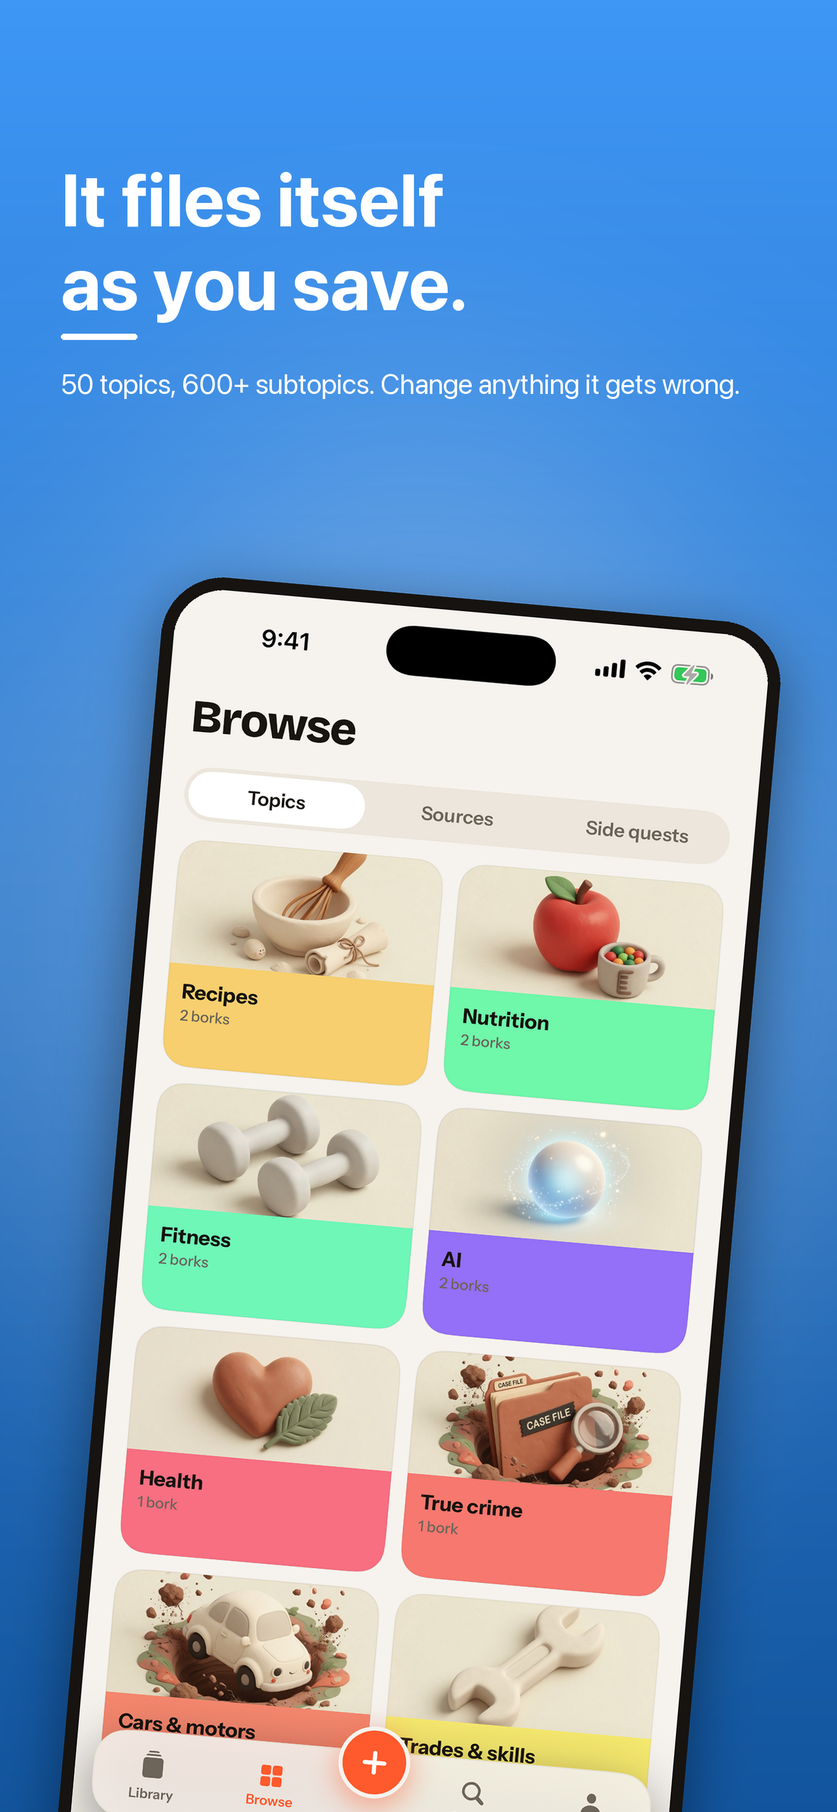
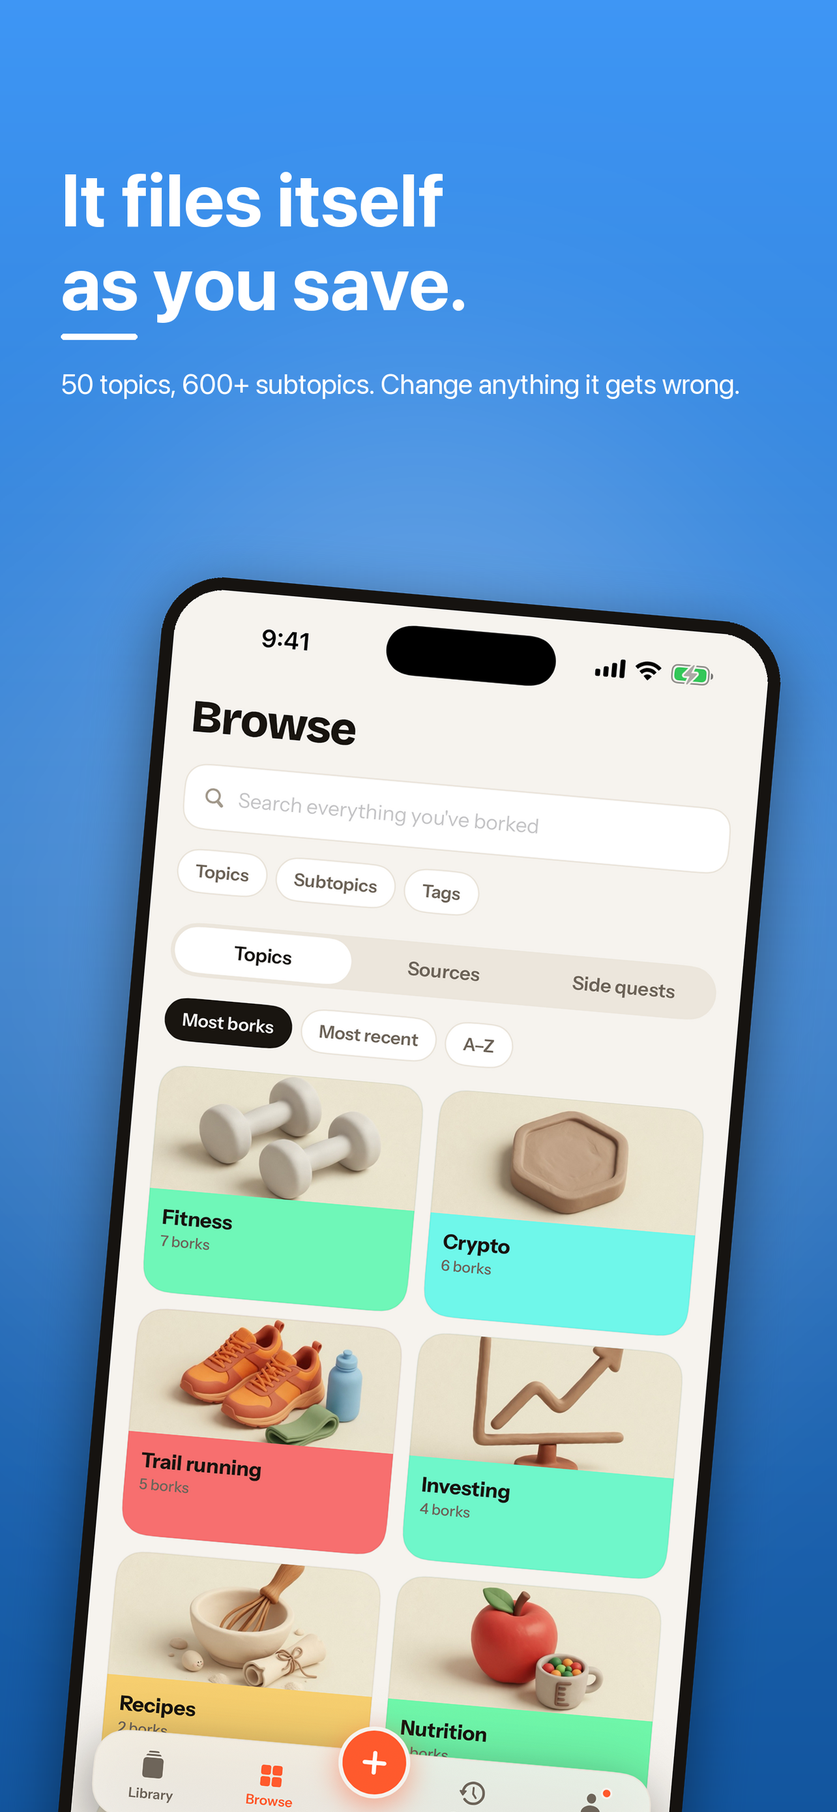
Give the seed real covers, so no store screenshot shows a placeholder
The 1.1 screenshots had two holes in them, both the seed's fault rather
than the UI's:

- Browse drew "Trail running" as a blank paper tile. It is the seed's one
  custom topic, and a custom topic has no bundled art until the `topic-art`
  function draws one. Two rows into the first Browse screenshot, that reads
  as a broken image.
- Every seeded media bork fell back to `CoverImage`'s gradient, so the
  topic page, Revisit and scoped search were columns of flat green behind
  a play glyph.

Both fallbacks are right in the app — Instagram and TikTok publish no
thumbnail to an unauthenticated request, so the gradient is permanent and
deliberately handsome — and both photograph as "the images failed to
load", which is what the store page would have been judged on.

So the seed now carries real covers: seven thumbnails from a real library,
served from our own bucket, and the clay scene `topic-art` draws for a
running topic. They arrive through the ordinary `AsyncImage` path, so the
screenshots are still unretouched captures of the real UI. Assignments are
chosen so no two cards visible in the same shot share an image. X and
Threads posts keep no cover: a text post has none in the app either.

All DEBUG-only — `DebugSeed` is inside `#if DEBUG` and nothing here is
compiled into a Release build.

Also:
- `shoot` waits `SETTLE` (default 3s) after the screen is up, since a
  cover is now a network fetch that cross-fades in and a half-faded cover
[…]

Changed region(s): [[0.1246, 0.4334, 0.8723, 1.0]]

diff --git a/App/DebugSeed.swift b/App/DebugSeed.swift
@@ -54,6 +54,10 @@ enum DebugSeed {
                 noteDate: sample.note == nil ? nil : .now,
                 savedAt: daysAgo(age)
             )
+            // The cover the platform published, as `PreviewFetcher` would have
+            // written it. Set here rather than passed to `init` so the seed
+            // doesn't widen a model initialiser it is the only caller of.
+            bookmark.imageURLString = sample.image
             // Usage signal. Revisit is built entirely from these two fields, so
             // a seed where nothing was ever opened shows a permanently empty
             // "you keep coming back to" — which is the one section a screenshot
@@ -66,11 +70,6 @@ enum DebugSeed {
             saved.append(bookmark)
         }
 
-        // A topic the user invented, with subtopics to match. The 50 built-ins
-        // carry bundled clay art; a topic you made has none until the
-        // `topic-art` function draws it — which makes this the seed's only
-        // exercise of the hero band's tint fallback, and of a custom topic
-        // mixing into the grid under A–Z.
         // A bork the share sheet accepted after the limit was reached: saved,
         // on the phone, greyed in the Library, waiting for an account.
         for (offset, sample) in waitingSamples.enumerated() {
@@ -83,6 +82,7 @@ enum DebugSeed {
                 durationSeconds: sample.duration,
                 savedAt: Date.now.addingTimeInterval(Double(offset) * -600)
             )
+            bookmark.imageURLString = sample.image
             bookmark.waitingSince = Date.now.addingTimeInterval(Double(offset) * -600)
             context.insert(bookmark)
         }
@@ -95,14 +95,29 @@ enum DebugSeed {
             return
         }
 
+        // A topic the user invented, with subtopics to match, mixing into the
+        // grid under A–Z. The 50 built-ins carry bundled clay art; a topic you
+        // made has none until the `topic-art` function draws it.
+        //
+        // The seed used to leave that art off, which made this its only
+        // exercise of the hero band's tint fallback — and drew a blank paper
+        // tile two rows into Browse, the first thing the eye lands on in the
+        // store screenshot, where it reads as a broken image. So it gets the
+        // scene `topic-art` would have drawn for it. The fallback is still
+        // exercised by every topic created at runtime, in the seconds between
+        // creating one and its art landing.
         let custom = CustomTopic(name: "Trail running", hue: CustomTopic.nextHue(existing: []))
+        custom.imageURLString = Cover.trailRunning
+        // Stamped as already asked for, so Browse's backfill doesn't spend a
+        // round trip re-drawing a topic that has its scene.
+        custom.artRequestedAt = .now
         context.insert(custom)
         for name in ["Races", "Shoes", "Ultras"] {
             context.insert(CustomSubtopic(categoryID: custom.id, name: name))
         }
         for (offset, sample) in customSamples.enumerated() {
             guard let url = URL(string: sample.url) else { continue }
-            context.insert(Bookmark(
+            let bookmark = Bookmark(
                 url: url,
                 title: sample.title,
                 author: sample.author,
@@ -113,7 +128,9 @@ enum DebugSeed {
                 tags: sample.tags,
                 durationSeconds: sample.duration,
                 savedAt: daysAgo(offset * 3 + 2)
-            ))
+            )
+            bookmark.imageURLString = sample.image
+            context.insert(bookmark)
         }
 
         let quest = Mission(title: "Improve mobility for running", categoryID: "fitness")
@@ -134,24 +151,72 @@ enum DebugSeed {
         Sample(url: "https://www.youtube.com/watch?v=utmb2026",
                title: "UTMB, from the back of the pack", author: "@longwaydown",
                platform: .youtube, kind: .video, category: "", sub: "Races",
-               tags: ["ultra", "utmb"], duration: 1840),
+               tags: ["ultra", "utmb"], duration: 1840,
+               image: Cover.talkingHead),
         Sample(url: "https://www.instagram.com/reel/C13trailshoes",
                title: "Three trail shoes, six hundred kilometres",
                author: "@dirt.miles", platform: .instagram, kind: .reel,
-               category: "", sub: "Shoes", tags: ["shoes", "gear"], duration: 74),
+               category: "", sub: "Shoes", tags: ["shoes", "gear"], duration: 74,
+               image: Cover.mobility),
         Sample(url: "https://www.tiktok.com/@vertgang/video/9912",
                title: "Power hiking is not cheating", author: "@vertgang",
                platform: .tiktok, kind: .clip, category: "", sub: "Ultras",
-               tags: ["vert", "technique"], duration: 58),
+               tags: ["vert", "technique"], duration: 58,
+               image: Cover.footPain),
         Sample(url: "https://www.irunfar.com/2026/07/night-running-kit",
                title: "What to carry when the race runs into the dark",
                author: "irunfar.com", platform: .web, kind: .article,
-               category: "", sub: "Ultras", tags: ["kit", "night"]),
+               category: "", sub: "Ultras", tags: ["kit", "night"],
+               image: Cover.physiology),
         Sample(url: "https://www.youtube.com/shorts/downhillform",
                title: "Downhill form drills for beaten quads",
                author: "@dirt.miles", platform: .shorts, kind: .short,
-               category: "", sub: "Ultras", tags: ["downhill", "quads"], duration: 44),
+               category: "", sub: "Ultras", tags: ["downhill", "quads"], duration: 44,
+               image: Cover.explainer),
     ]
+
+    /// Real cover art for the seeded borks.
+    ///
+    /// Without these every seeded media bork falls back to `CoverImage`'s
+    /// gradient — which is the right thing in the app (Instagram and TikTok
+    /// don't publish thumbnails to unauthenticated requests, so for a real
+    /// library it is permanent, and deliberately handsome) and the wrong thing
+    /// in an App Store screenshot, where a column of flat gradients behind a
+    /// play glyph reads as "the images failed to load".
+    ///
+    /// These are real thumbnails from the founder's own library, copied into
+    /// our storage bucket, so what the screenshots show is a genuine cover
+    /// arriving through the ordinary `AsyncImage` path. Nothing is drawn over
+    /// the app's own pixels and no UI is invented.
+    ///
+    /// Named rather than numbered so an assignment below can be read for what
+    /// it puts on the card. Seven of the eight saved covers are here: the
+    /// eighth is a 1.8 KB all-black frame (mean luminance 0.9 of 255), which
+    /// on a card is indistinguishable from the missing image this exists to
+    /// fix, so it is deliberately left out.
+    private enum Cover {
+        private static let bucket = "https://pcjuxnhqxyfvgagnblzv.supabase.co/storage/v1/object/public/thumbs/2571a6ca-9bb5-4a2e-82af-889f0a75b940/"
+
+        /// Neck and shoulder mobility routine.
[1 lines of base64/hex data omitted]
+        /// Piece to camera in front of a health infographic.
[1 lines of base64/hex data omitted]
+        /// Anatomy overlay on a standing figure.
[1 lines of base64/hex data omitted]
+        /// Bare feet on rock — "I have pain in my foot when I run".
[1 lines of base64/hex data omitted]
+        /// A screenshotted post, the way a long text clip gets saved.
[1 lines of base64/hex data omitted]
+        /// Talking to camera, shot in a car.
[1 lines of base64/hex data omitted]
+        /// Supermarket aisle, scoring food.
[1 lines of base64/hex data omitted]
+
+        /// The clay scene the `topic-art` function draws for a running topic,
+        /// already published on the marketing site. Stands in for generated
+        /// art so the seeded custom topic is not blank paper in a screenshot.
+        static let trailRunning = "https://bookmarker.lol/img/quests/run.jpg"
+    }
 
     private struct Sample {
         let url: String, title: String, author: String
@@ -167,6 +232,14 @@ enum DebugSeed {
         var days: Int? = nil
         var opens: Int = 0
         var openedDaysAgo: Int = 1
+        /// Cover thumbnail. Last, so the memberwise initialiser takes it last
+        /// and every sample below can name it on its own final line.
+        ///
+        /// Left nil on X and Threads posts: a text post has no cover in the
+        /// real app either — it renders as the post itself, with the handle
+        /// and the platform mark — so a cover there would be invented UI, not
+        /// a fix.
+        var image: String? = nil
     }
 
     private static let samples: [Sample] = [
@@ -174,7 +247,8 @@ enum DebugSeed {
                title: "5-minute hip mobility flow you can do at your desk",
                author: "@physio.jane", platform: .tiktok, kind: .clip,
                category: "fitness", sub: "Mobility", tags: ["hips", "desk", "daily"],
-               duration: 312, note: "Do this before long runs.", opens: 7, openedDaysAgo: 1),
+               duration: 312, note: "Do this before long runs.", opens: 7, openedDaysAgo: 1,
+               image: Cover.mobility),
         Sample(url: "https://x.com/hubermanclips/status/180233",
                title: "Magnesium glycinate thread", author: "@hubermanclips",
                platform: .x, kind: .thread, category: "health", sub: "Sleep",
@@ -184,12 +258,14 @@ enum DebugSeed {
                title: "I tried the 30g protein breakfast for 30 days — here is what happened",
                author: "@macrofriendly", platform: .youtube, kind: .video,
                category: "nutrition", sub: "High-protein", tags: ["breakfast", "protein"],
-               duration: 768, opens: 4, openedDaysAgo: 2),
+               duration: 768, opens: 4, openedDaysAgo: 2,
+               image: Cover.groceries),
         Sample(url: "https://www.instagram.com/reel/C8xhamstring",
                title: "4 stretches for tight hamstrings after long runs",
                author: "@run.physio", platform: .instagram, kind: .reel,
                category: "fitness", sub: "Stretching", tags: ["hamstrings", "running"],
-               duration: 48, opens: 3, openedDaysAgo: 4),
+               duration: 48, opens: 3, openedDaysAgo: 4,
+               image: Cover.footPain),
         Sample(url: "https://www.threads.net/@macromusings/post/991",
                title: "On fasting windows", author: "@macromusings",
                platform: .threads, kind: .thread, category: "nutrition", sub: "Fasting",
@@ -199,24 +275,29 @@ enum DebugSeed {
                title: "5-ingredient high-protein dinner in 12 minutes",
                author: "@quickmacros", platform: .shorts, kind: .short,
                category: "recipes", sub: "High-protein", tags: ["dinner", "quick"],
-               duration: 51),
+               duration: 51,
+               image: Cover.groceries),
         Sample(url: "https://arstechnica.com/2026/07/the-quiet-return-of-local-models",
                title: "The quiet return of local models", author: "arstechnica.com",
                platform: .web, kind: .article, category: "ai", sub: "Local models",
-               tags: ["local", "inference"]),
+               tags: ["local", "inference"],
+               image: Cover.postScreenshot),
         Sample(url: "https://www.tiktok.com/@detailgeek/video/8821",
                title: "Paint correction on a 20 year old daily driver",
                author: "@detailgeek", platform: .tiktok, kind: .clip,
                category: "cars", sub: "Detailing", tags: ["detailing", "paint"],
-               duration: 187),
+               duration: 187,
+               image: Cover.talkingHead),
         Sample(url: "https://www.pinterest.com/pin/smallkitchen",
                title: "Small kitchen storage that actually works",
                author: "pinterest.com", platform: .pinterest, kind: .pin,
-               category: "cleaning", sub: "Storage", tags: ["kitchen", "storage"]),
+               category: "cleaning", sub: "Storage", tags: ["kitchen", "storage"],
+               image: Cover.explainer),
         Sample(url: "https://www.instagram.com/reel/C9morning",
                title: "My 10-minute calm morning routine", author: "@calm.mornings",
                platform: .instagram, kind: .reel, category: "wellness",
-               sub: "Morning routines", tags: ["morning", "habits"], duration: 39),
+               sub: "Morning routines", tags: ["morning", "habits"], duration: 39,
+               image: Cover.mobility),
         Sample(url: "https://x.com/indexinvestor/status/44120",
                title: "ETFs vs index funds", author: "@indexinvestor",
                platform: .x, kind: .thread, category: "investing", sub: "ETFs & index funds",
@@ -226,37 +307,44 @@ enum DebugSeed {
                title: "Unsolved: the detective who never closed the case",
                author: "@casefilesdaily", platform: .youtube, kind: .video,
                category: "truecrime", sub: "Cold cases", tags: ["unsolved", "detective"],
-               duration: 1432),
+               duration: 1432,
+               image: Cover.talkingHead),
         Sample(url: "https://www.tiktok.com/@booktok.sam/video/5512",
                title: "This novel destroyed me in the best way",
                author: "@booktok.sam", platform: .tiktok, kind: .clip,
                category: "books", sub: "Recommendations", tags: ["fiction", "booktok"],
-               duration: 62),
+               duration: 62,
+               image: Cover.postScreenshot),
         Sample(url: "https://www.youtube.com/shorts/promptagents",
                title: "Prompt patterns for agents that actually finish the task",
                author: "@aibuilds", platform: .shorts, kind: .short,
                category: "ai", sub: "Agents", tags: ["prompting", "agents"],
                duration: 58,
-               note: "Try the checklist pattern on the scraper job.", opens: 5, openedDaysAgo: 3),
+               note: "Try the checklist pattern on the scraper job.", opens: 5, openedDaysAgo: 3,
+               image: Cover.explainer),
         Sample(url: "https://www.instagram.com/reel/C10toddler",
                title: "The tantrum reset that finally worked for us",
                author: "@gentle.parent", platform: .instagram, kind: .reel,
                category: "parenting", sub: "Discipline", tags: ["toddlers", "tantrum"],
-               duration: 44),
+               duration: 44,
+               image: Cover.talkingHead),
         Sample(url: "https://www.smittenkitchen.com/2026/06/one-pan-orzo",
                title: "One-pan lemon orzo that reheats properly",
                author: "smittenkitchen.com", platform: .web, kind: .article,
                category: "recipes", sub: "One-pan", tags: ["orzo", "weeknight"],
-               opens: 2, openedDaysAgo: 6),
+               opens: 2, openedDaysAgo: 6,
+               image: Cover.groceries),
         Sample(url: "https://www.tiktok.com/@weldlife/video/3310",
                title: "Reading a weld: what good penetration actually looks like",
                author: "@weldlife", platform: .tiktok, kind: .clip,
                category: "trades", sub: "Welding", tags: ["welding", "technique"],
-               duration: 96),
+               duration: 96,
+               image: Cover.physiology),
         Sample(url: "https://www.youtube.com/watch?v=gardenbeds",
                title: "No-dig beds, two years on", author: "@plotandplant",
                platform: .youtube, kind: .video, category: "garden", sub: "Vegetables",
-               tags: ["no-dig", "beds"], duration: 954),
+               tags: ["no-dig", "beds"], duration: 954,
+               image: Cover.mobility),
 
         // ── Older, so Revisit has a past to talk about ──────────────────────
         // Everything above is one bork a day for the last few weeks, which
@@ -268,25 +356,30 @@ enum DebugSeed {
                title: "Zone 2, and why every plan starts there",
                author: "@runsciencedaily", platform: .youtube, kind: .video,
                category: "fitness", sub: "Running", tags: ["zone 2", "base"],
-               duration: 1104, days: 26),
+               duration: 1104, days: 26,
+               image: Cover.physiology),
         Sample(url: "https://www.instagram.com/reel/C11cadence",
                title: "Cadence drills that stop the heel strike",
                author: "@run.physio", platform: .instagram, kind: .reel,
                category: "fitness", sub: "Running", tags: ["cadence", "running"],
-               duration: 51, days: 27),
+               duration: 51, days: 27,
+               image: Cover.talkingHead),
         Sample(url: "https://www.tiktok.com/@physio.jane/video/7420",
                title: "Calf raises: the boring fix for shin pain",
                author: "@physio.jane", platform: .tiktok, kind: .clip,
                category: "fitness", sub: "Strength", tags: ["calves", "running"],
-               duration: 143, days: 28),
+               duration: 143, days: 28,
+               image: Cover.explainer),
         Sample(url: "https://www.youtube.com/shorts/hillreps",
                title: "Hill reps in 20 minutes", author: "@quickmiles",
                platform: .shorts, kind: .short, category: "fitness", sub: "Running",
-               tags: ["hills", "intervals"], duration: 47, days: 29),
+               tags: ["hills", "intervals"], duration: 47, days: 29,
+               image: Cover.footPain),
         Sample(url: "https://www.instagram.com/reel/C12fuel",
                title: "What to eat before a long run", author: "@macrofriendly",
                platform: .instagram, kind: .reel, category: "fitness", sub: "Running",
-               tags: ["fuelling", "running"], duration: 62, days: 30),
+               tags: ["fuelling", "running"], duration: 62, days: 30,
+               image: Cover.groceries),
         Sample(url: "https://x.com/onchainkate/status/77120",
                title: "Rollups, in plain English", author: "@onchainkate",
                platform: .x, kind: .thread, category: "crypto", sub: "Ethereum",
@@ -297,7 +390,8 @@ enum DebugSeed {
                title: "Self-custody without losing everything",
                author: "@keysandcoins", platform: .youtube, kind: .video,
                category: "crypto", sub: "Wallets", tags: ["custody", "seed phrase"],
-               duration: 892, days: 35),
+               duration: 892, days: 35,
+               image: Cover.postScreenshot),
         Sample(url: "https://x.com/onchainkate/status/77004",
                title: "Stablecoin yields are somebody's loan",
                author: "@onchainkate", platform: .x, kind: .thread,
@@ -308,15 +402,18 @@ enum DebugSeed {
                title: "Reading a funding rate without kidding yourself",
                author: "@chartsdaily", platform: .tiktok, kind: .clip,
                category: "crypto", sub: "Trading", tags: ["funding", "leverage"],
-               duration: 118, days: 42),
+               duration: 118, days: 42,
+               image: Cover.explainer),
         Sample(url: "https://www.coindesk.com/2026/07/the-quiet-quarter",
                title: "The quiet quarter", author: "coindesk.com",
                platform: .web, kind: .article, category: "crypto", sub: "Markets",
-               tags: ["cycle", "quiet"], days: 45),
+               tags: ["cycle", "quiet"], days: 45,
+               image: Cover.postScreenshot),
         Sample(url: "https://www.youtube.com/watch?v=btcstorage",
                title: "Cold storage, six months on", author: "@keysandcoins",
                platform: .youtube, kind: .video, category: "crypto", sub: "Wallets",
-               tags: ["cold storage"], duration: 640, days: 48),
+               tags: ["cold storage"], duration: 640, days: 48,
+               image: Cover.physiology),
         Sample(url: "https://x.com/indexinvestor/status/43880",
                title: "The fee you cannot see", author: "@indexinvestor",
                platform: .x, kind: .thread, category: "investing", sub: "Fees",
@@ -327,20 +424,24 @@ enum DebugSeed {
                title: "Rebalancing, and when not to bother",
                author: "@plainmoney", platform: .youtube, kind: .video,
                category: "investing", sub: "Portfolio", tags: ["rebalancing"],
-               duration: 733, days: 44),
+               duration: 733, days: 44,
+               image: Cover.talkingHead),
         Sample(url: "https://www.morningstar.com/2026/06/bonds-again",
                title: "Bonds, again", author: "morningstar.com",
                platform: .web, kind: .article, category: "investing", sub: "Bonds",
-               tags: ["bonds", "duration"], days: 50),
+               tags: ["bonds", "duration"], days: 50,
+               image: Cover.postScreenshot),
         Sample(url: "https://www.youtube.com/watch?v=localfirst",
                title: "Local-first apps and the sync problem",
                author: "@buildlogs", platform: .youtube, kind: .video,
                category: "tech", sub: "Software", tags: ["local-first", "sync"],
-               duration: 1520, days: 52),
+               duration: 1520, days: 52,
+               image: Cover.explainer),
         Sample(url: "https://www.tiktok.com/@shipfast/video/2211",
                title: "One keyboard shortcut per day", author: "@shipfast",
                platform: .tiktok, kind: .clip, category: "tech", sub: "Productivity",
-               tags: ["shortcuts"], duration: 39, days: 55),
+               tags: ["shortcuts"], duration: 39, days: 55,
+               image: Cover.mobility),
     ]
 }
 #endif

diff --git a/APPSTORE.md b/APPSTORE.md
@@ -461,6 +461,21 @@ Two things worth knowing before you re-run them:
   `browse` and written back into the container, and from then on the container
   value shadows the global one and every capture comes out on the same screen.
   If the captures all look identical, uninstall the app and start again.
+- Every seeded card carries a real cover (`DebugSeed.Cover`), and the seeded
+  custom topic carries real art. `CoverImage`'s gradient and Browse's blank
+  paper tile are correct, deliberate fallbacks in the app, and both photograph
+  as missing images. The covers are fetched over the network at capture time,
+  so the simulator has to be online, and `shoot` waits `SETTLE` seconds
+  (default 3) after the screen is up for them to land. If a cover comes out
+  half faded, raise it: `SETTLE=6 bash Scripts/capture_screenshots.sh`.
+
+Two things that are supposed to look like that:
+- The X and Threads cards have no cover. A text post has none in the real app
+  either — it renders as the post itself, with the handle and the platform
+  mark — so leave them alone.
+- "Trail running" is the one topic tile that isn't bundled clay art. It is a
+  topic the seeded user invented, and it carries the scene the `topic-art`
+  function draws for a topic like it.
 
 Three practical notes:
 - Apple accepts as few as one, but 3–5 is normal. You can reorder them later.
